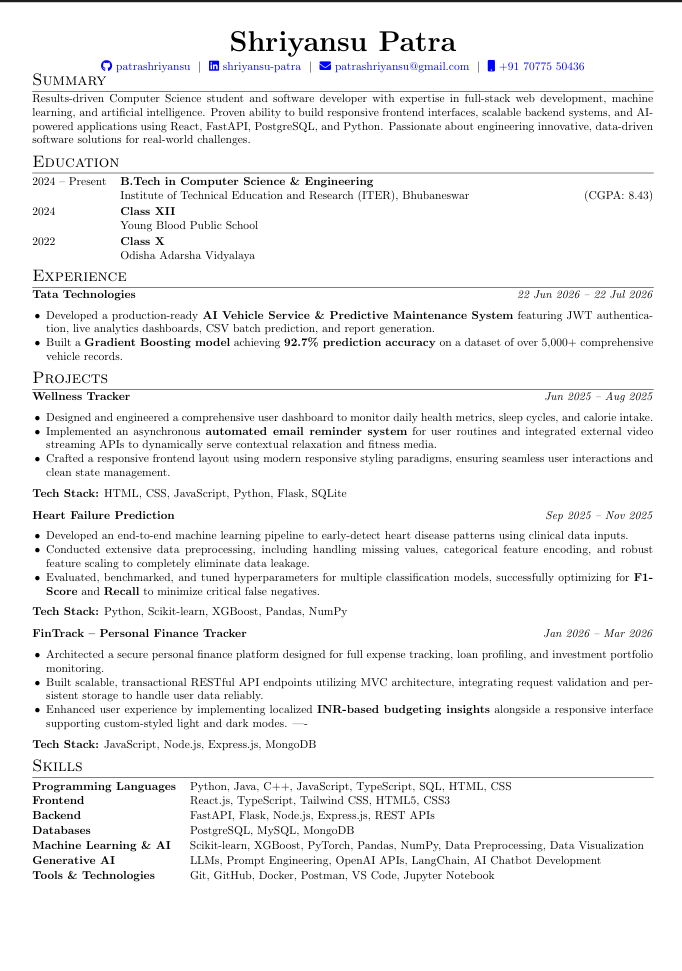
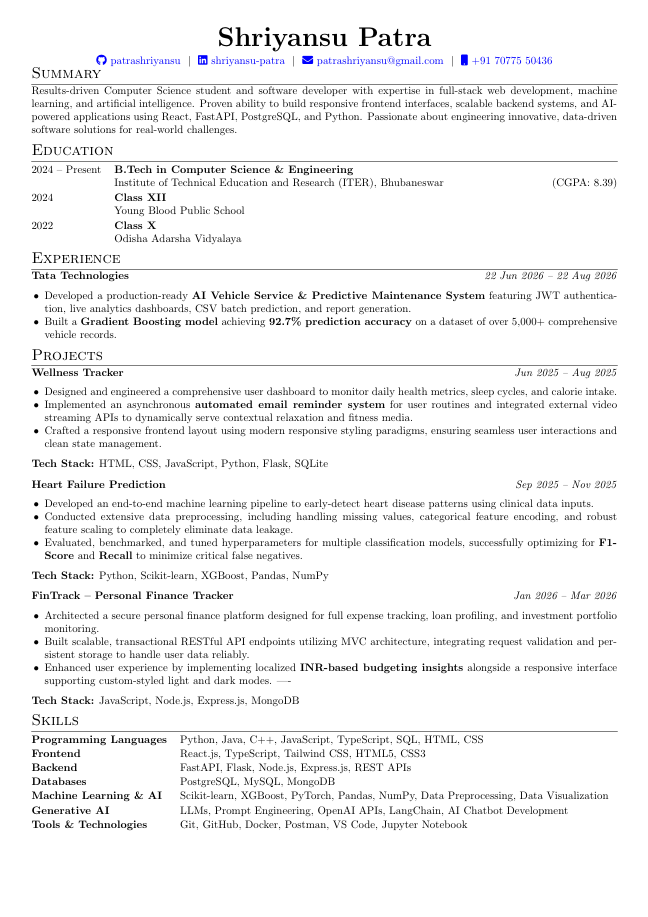
Update resume image asset with latest screenshot

Changed region(s): [[0.0, 0.0, 1.0, 0.916]]

diff --git a/index.html b/index.html
@@ -774,10 +774,10 @@
       <button class="modal-close" aria-label="Close Modal">✕</button>
       <h2 style="margin-bottom: 1rem;">Shriyansu Patra — Official Resume</h2>
       <div style="text-align: center; margin-bottom: 1.5rem;">
-        <img src="assets/shriyansu_resume.png" alt="Shriyansu Patra Resume" style="max-width: 100%; height: auto; border-radius: 8px; border: 1px solid var(--border-subtle);">
+        <img src="assets/shriyansu_resume.png?v=4" alt="Shriyansu Patra Resume" style="max-width: 100%; height: auto; border-radius: 8px; border: 1px solid var(--border-subtle);">
       </div>
       <div style="display: flex; justify-content: flex-end; gap: 1rem;">
-        <a href="assets/shriyansu_resume.png" download="Shriyansu_Patra_Resume.png" class="btn-primary">Download Resume Image</a>
+        <a href="assets/shriyansu_resume.png?v=4" download="Shriyansu_Patra_Resume.png" class="btn-primary">Download Resume Image</a>
       </div>
     </div>
   </div>
